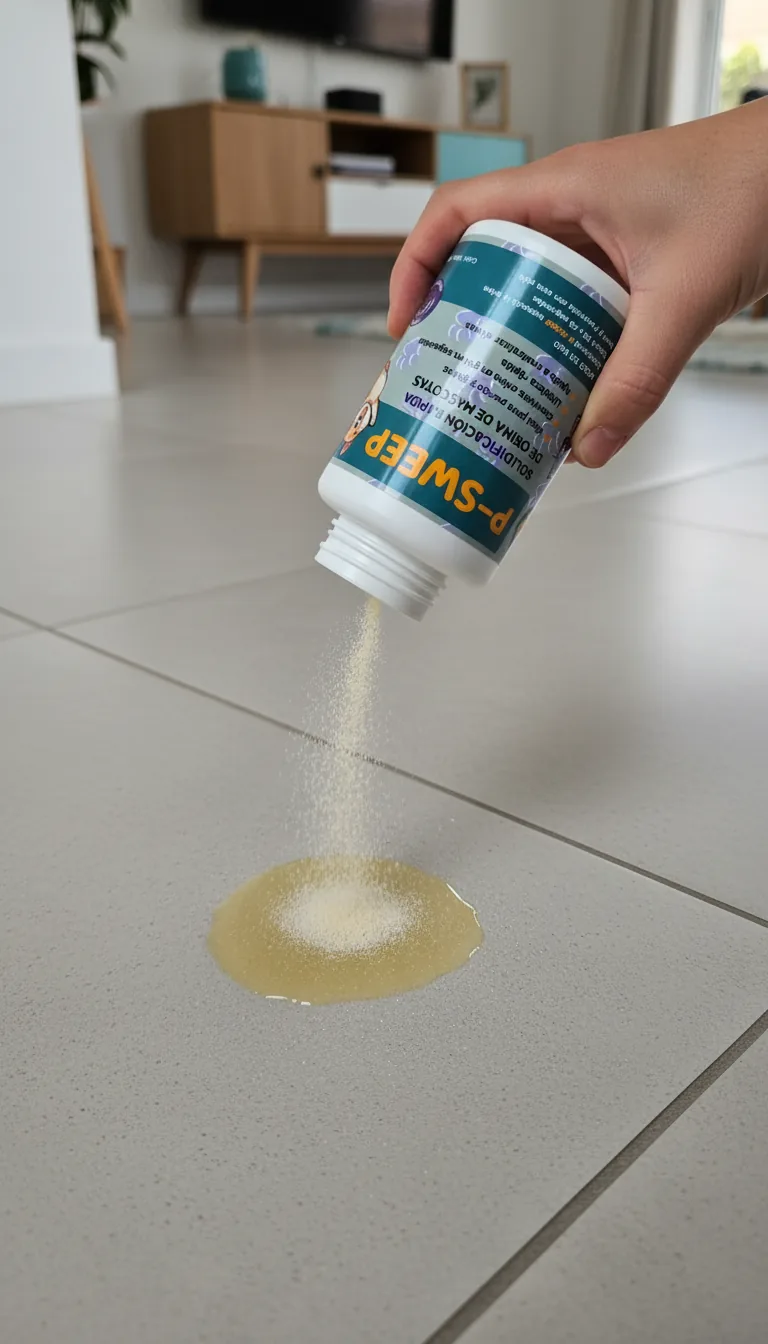
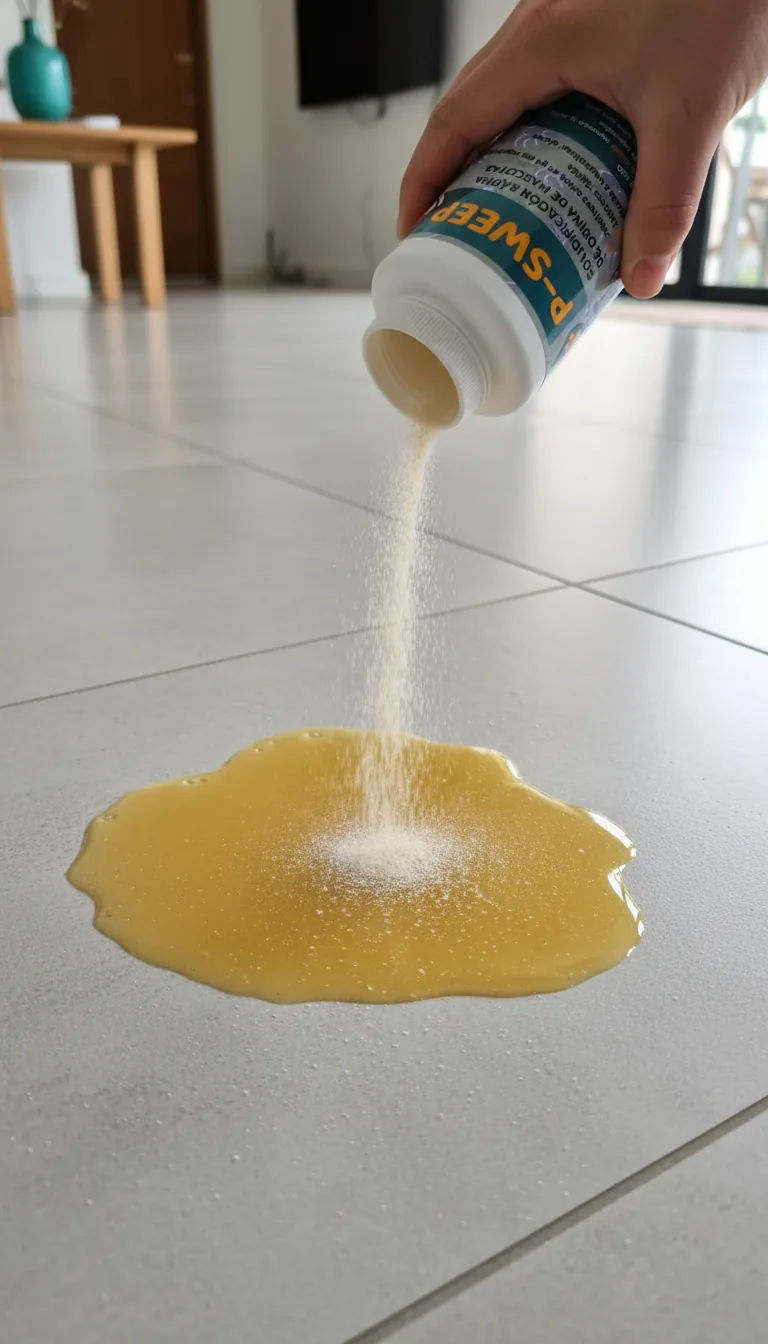
Iteración Julián: hero pet shop, product-in-action, step-1 pis visible, b2b sin precio
- hero-product: ahora con fondo de pet shop blurred (estantes con bolsas
  de comida, accesorios, productos), envase en primer plano
- product-in-action: NUEVA imagen del envase tirado de lado en el piso
  espolvoreando polvo sobre charco de orina amarilla (acción visible).
  Usada en sección 'Conocé Psweep' (.product-card)
- step-1: charco amarillo de pis ahora claramente visible, mucho más grande,
  con color y bordes definidos
- b2b-shelf: estilo premium retail (strip LED lights, wood shelving, bokeh)
  con packaging real P-SWEEP (white cap, no yellow), sin price tag

diff --git a/index.html b/index.html
@@ -1306,7 +1306,7 @@
 <!-- ============ PRODUCT INTRO ============ -->
 <section data-screen-label="04 Producto">
   <div class="container intro-grid">
-    <div class="product-card"><img src="assets/hero-product.webp" alt="Envase Psweep" loading="lazy"></div>
+    <div class="product-card"><img src="assets/product-in-action.webp" alt="Psweep en acción solidificando orina en el piso" loading="lazy"></div>
     <div>
       <div class="kicker">Conocé Psweep</div>
       <h2 class="h2">Psweep convierte el problema en algo fácil de barrer</h2>

diff --git a/scripts/gen_images.py b/scripts/gen_images.py
@@ -19,8 +19,9 @@ OUT_DIR.mkdir(parents=True, exist_ok=True)
 
 # Reference images of the real product
 REF_DIR = ROOT / "assets" / "reference"
-REF_PRIMARY = REF_DIR / "product-stacked.png"   # clear front-facing label
-REF_IN_USE = REF_DIR / "product-in-use.png"     # in-context shot on tile floor
+REF_PRIMARY = REF_DIR / "product-stacked.png"           # clear front-facing label
+REF_IN_USE = REF_DIR / "product-in-use.png"             # in-context shot on tile floor
+REF_SHELF_STYLE = REF_DIR / "shelf-premium-style.png"   # premium shelf style ref
 
 def load_ref(path: pathlib.Path) -> dict:
     return {
@@ -32,6 +33,7 @@ def load_ref(path: pathlib.Path) -> dict:
 
 PRIMARY_PART = load_ref(REF_PRIMARY)
 IN_USE_PART = load_ref(REF_IN_USE)
+SHELF_STYLE_PART = load_ref(REF_SHELF_STYLE)
 
 # Product description repeated in every prompt — anchors the model to the real bottle
 PRODUCT = (
@@ -54,20 +56,35 @@ STYLE = (
 # Each entry: (prompt, list of reference parts to include)
 PROMPTS = {
     "hero-product": (
-        f"Studio product photograph of {PRODUCT} "
-        "Centered on a plain off-white seamless studio background (#F7F7F5). "
-        "Soft top-left lighting, gentle drop shadow under the bottle, "
-        "single bottle only, perfectly upright, label facing the camera. "
-        "Square framing, clean and minimal. "
+        f"Lifestyle product photograph of {PRODUCT} "
+        "displayed in the foreground of a pet supply store. "
+        "Sharp focus on the single upright bottle, label facing the camera. "
+        "Background is a softly blurred pet shop scene: wooden shelves stocked "
+        "with colorful pet food bags, dog toys, leashes, treats and accessories. "
+        "Warm store lighting, shallow depth of field bokeh in the background, "
+        "natural shop atmosphere — clearly a retail pet store, not a home. "
+        "Square framing, bottle centered, no text overlays. "
         f"{STYLE}",
         [PRIMARY_PART],
     ),
+    "product-in-action": (
+        f"Photograph of {PRODUCT} tipped on its side on a light grey ceramic "
+        "tile floor, actively spilling pale off-white absorbent powder onto a "
+        "spreading yellow puddle of pet urine. The powder is reacting with the "
+        "liquid — partially absorbed, forming clumps where it meets the puddle. "
+        "Bottle slightly off-center, action shot from a low 3/4 angle. "
+        "Modern Argentine home interior softly blurred in background, warm light. "
+        f"{STYLE}",
+        [PRIMARY_PART, IN_USE_PART],
+    ),
     "step-1": (
-        f"Close-up overhead photograph: a hand tipping {PRODUCT} "
-        "sideways and sprinkling fine off-white absorbent powder out of the "
-        "open bottle onto a small puddle of yellow-tinted liquid on a light "
-        "grey ceramic tile floor. Powder mid-air, caught in motion. "
-        "Modern Argentine home interior background, softly blurred. "
+        "Close-up overhead photograph of a clearly visible bright yellow puddle "
+        "of pet urine on a light grey ceramic tile floor. A hand enters from the "
+        f"top right of the frame, tipping {PRODUCT} sideways and sprinkling fine "
+        "off-white absorbent powder out of the open bottle directly onto the puddle. "
+        "Powder mid-air, caught in motion. The yellow urine puddle must be the "
+        "MAIN visible element — large, golden-yellow, with a clear glossy surface "
+        "and visible edges on the tile. Modern Argentine home, blurred background. "
         f"{STYLE}",
         [PRIMARY_PART, IN_USE_PART],
     ),
@@ -99,13 +116,17 @@ PROMPTS = {
         [PRIMARY_PART],
     ),
     "b2b-shelf": (
-        f"Photograph of a modern pet shop retail shelf with multiple identical "
-        f"bottles of {PRODUCT} arranged in neat rows on a wooden shelf. "
-        "All bottles must be the exact same P-SWEEP product, same teal label. "
-        "Warm overhead store lighting, a small price tag visible on the shelf edge. "
-        "Crisp focus on the front row, soft bokeh in background. "
-        "Wide horizontal framing. "
-        f"{STYLE}",
+        "Premium retail shelf photograph: modern wooden shelves with warm strip "
+        "LED lights mounted underneath each shelf, soft bokeh of a pet store in "
+        "the background, low-angle three-quarter perspective showing two rows of "
+        f"product. Every single bottle on the shelves must be {PRODUCT} — IDENTICAL "
+        "bottles aligned in neat rows, no other products visible. "
+        "CRITICAL: the bottles must have a WHITE screw cap (NOT yellow, NOT any "
+        "other color — pure WHITE plastic cap), white cylindrical body, and the "
+        "teal/dark-cyan label with 'P-SWEEP' in orange/yellow letters and "
+        "lavender paw prints exactly as shown in the reference. "
+        "NO price tags, NO shelf-edge labels, NO text overlays anywhere. "
+        "Premium pet store aesthetic, shallow depth of field, square framing.",
         [PRIMARY_PART],
     ),
     "demo-poster": (
